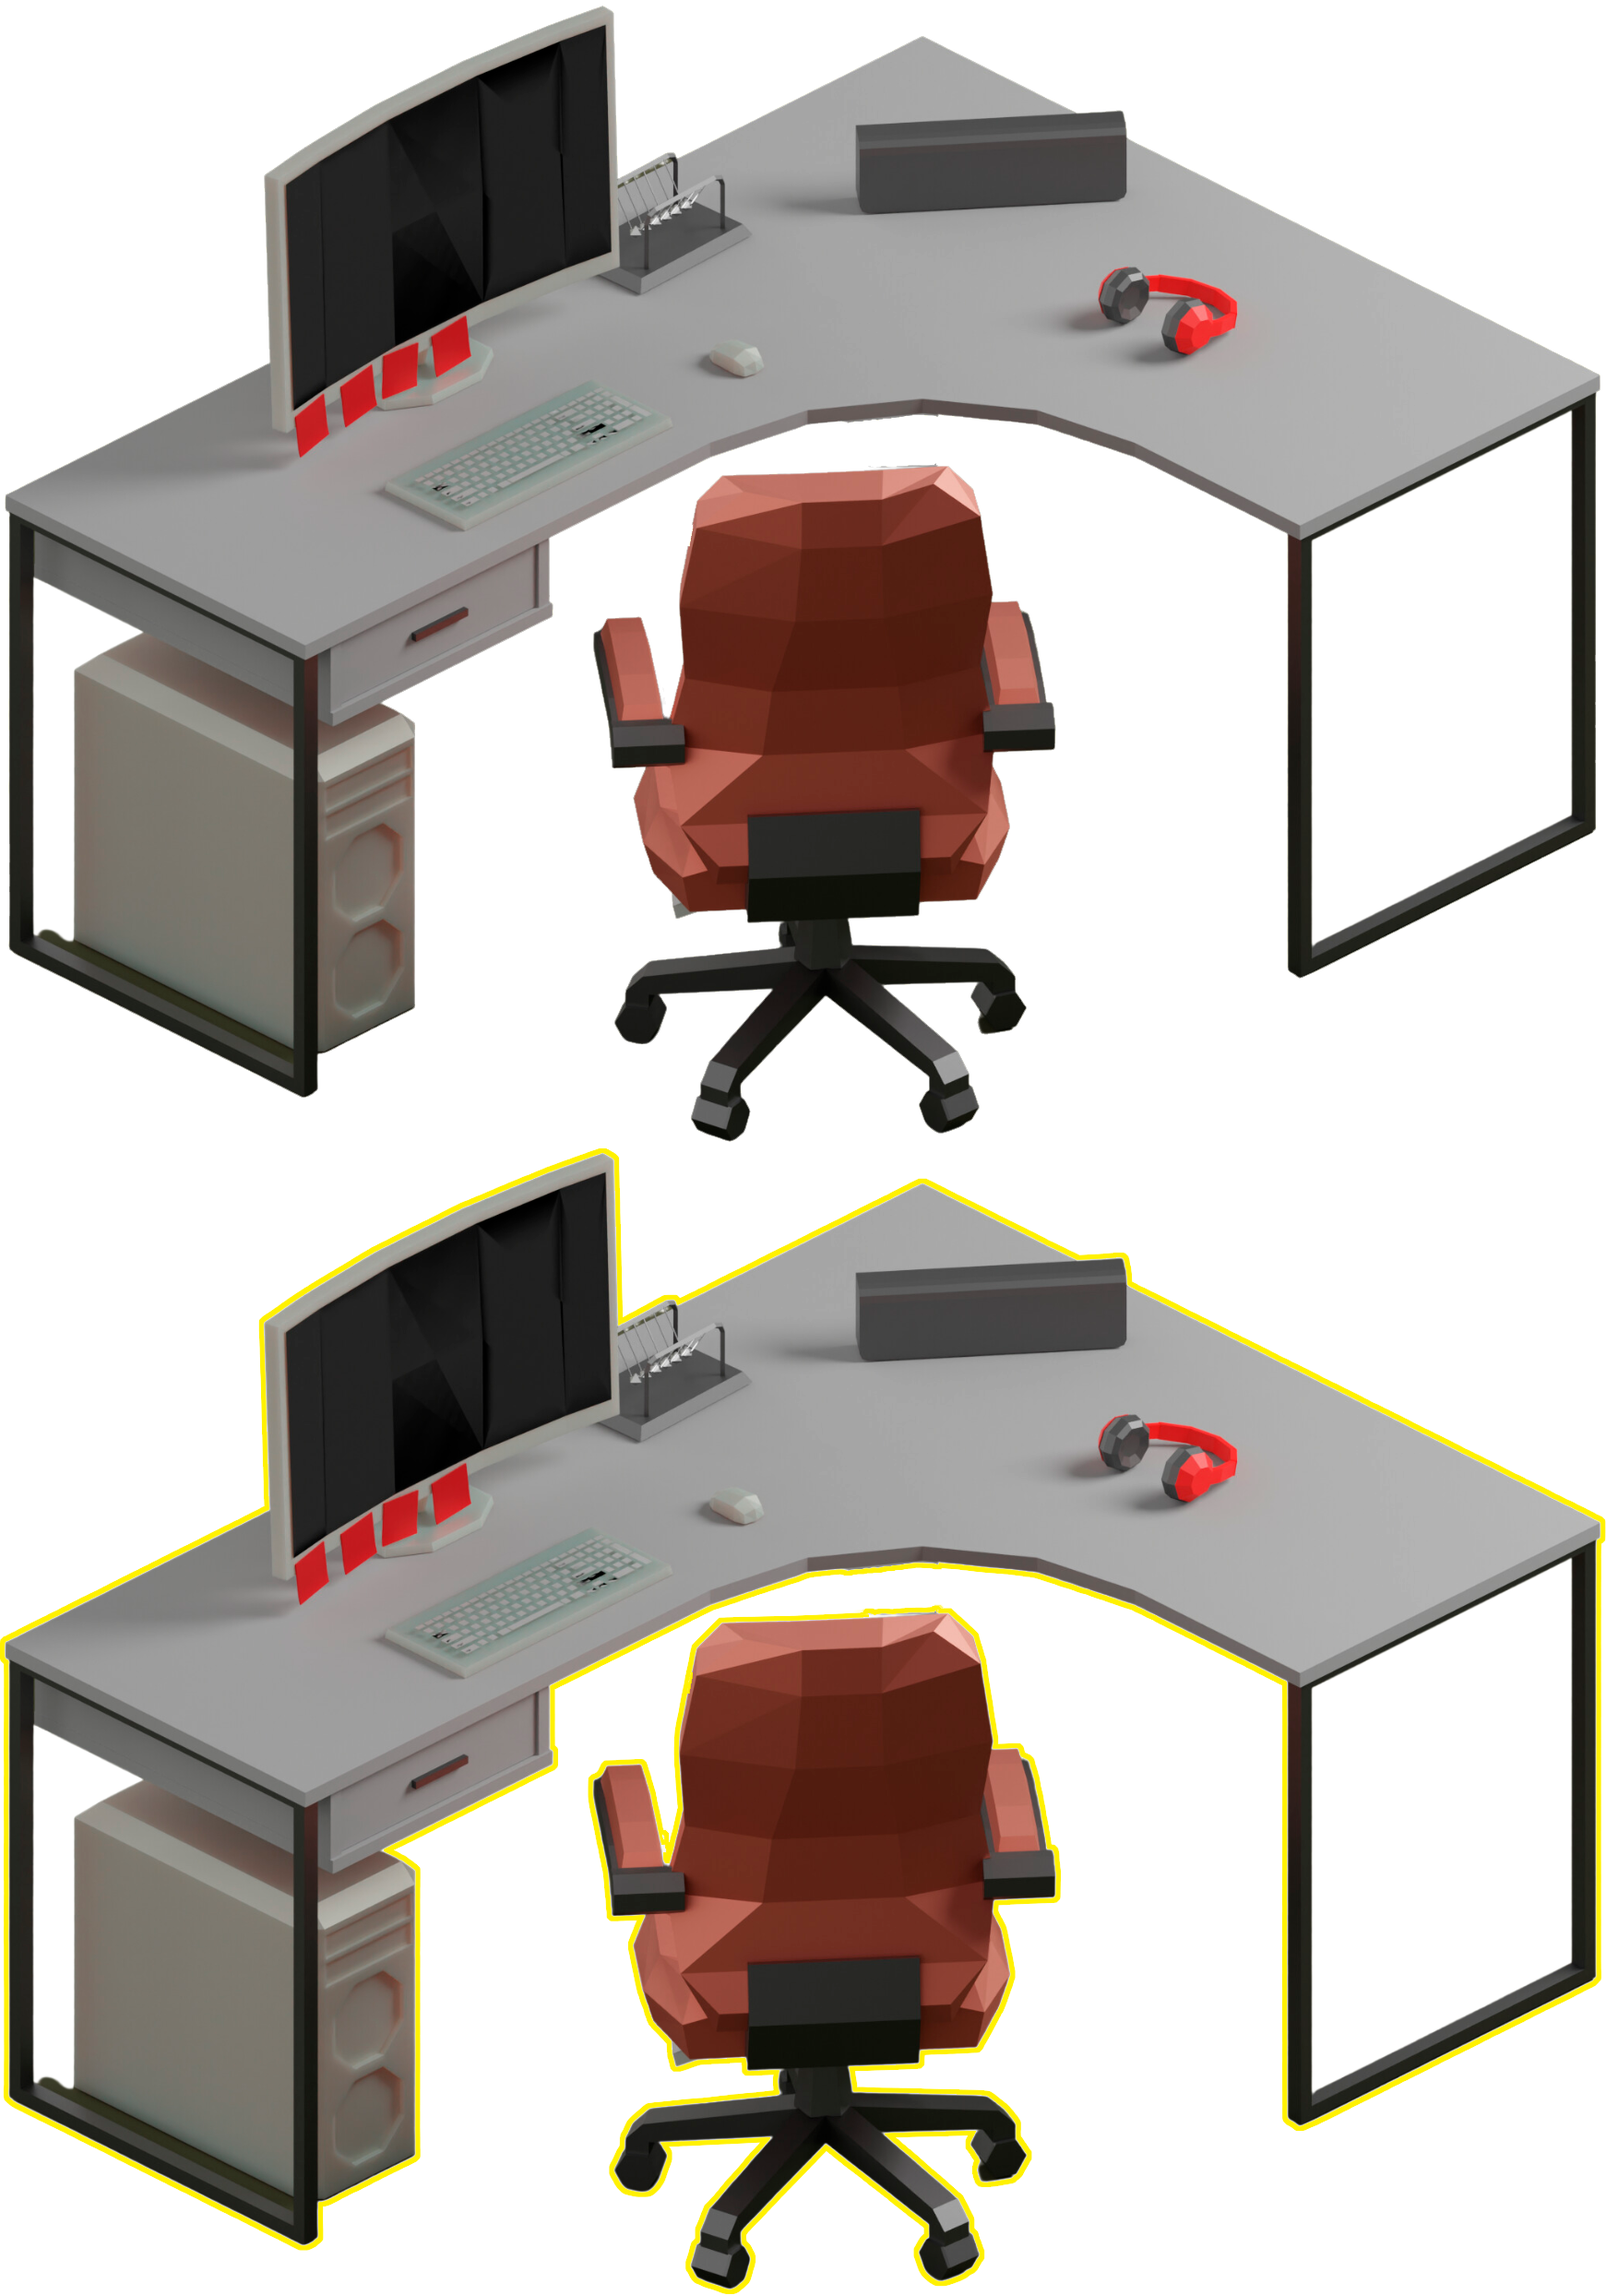
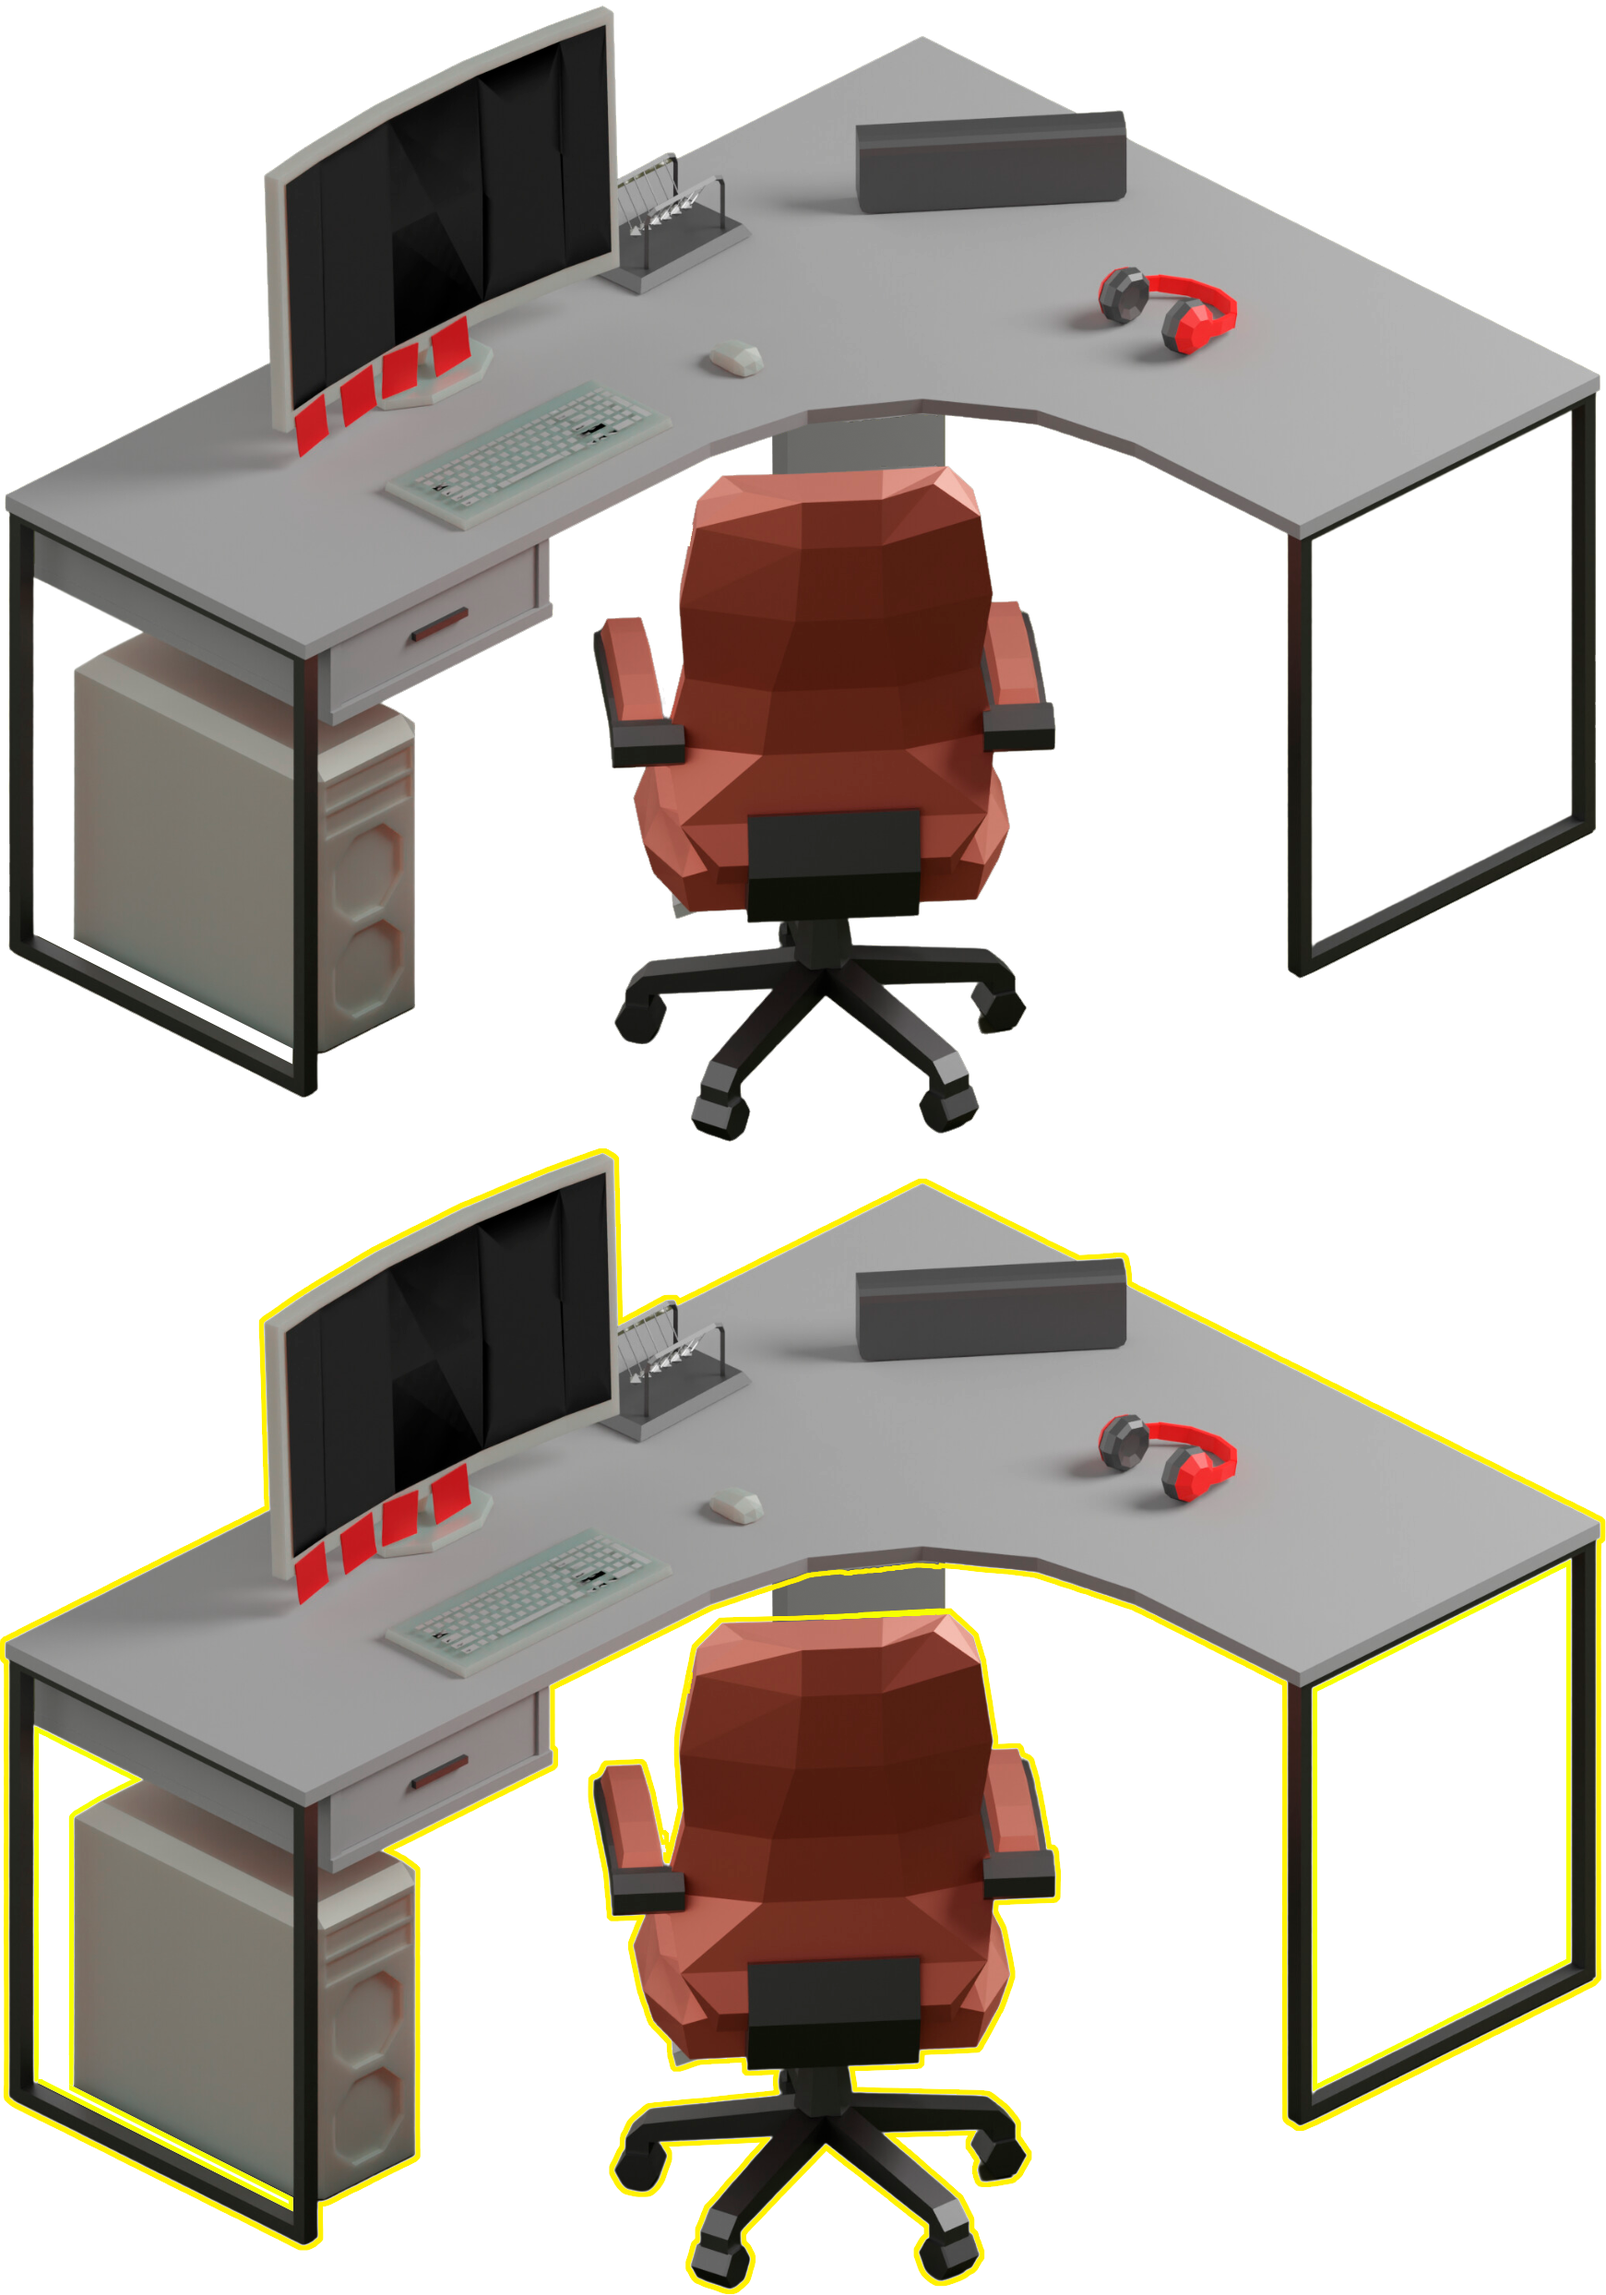
finalização da inclusão dos elementos na sala

diff --git a/src/gameLogic/levels/One/SceneOne.ts b/src/gameLogic/levels/One/SceneOne.ts
@@ -3,9 +3,14 @@ import waterDispenserSprite from '../../../assets/isometric/waterDispenser.png';
 import sofaOneSprite from '../../../assets/isometric/sofaOne.png';
 import sofaTwoSprite from '../../../assets/isometric/sofaTwo.png';
 import drawerSprite from '../../../assets/isometric/drawer.png';
+import doorSprite from '../../../assets/isometric/door.png';
 import meetingDeskSprite from '../../../assets/isometric/meetingDesk.png';
 import midLevelDeskSprite from '../../../assets/isometric/midLevelDesk.png';
 import seniorDeskSprite from '../../../assets/isometric/seniorDesk.png';
+import juniorDeskSprite from '../../../assets/isometric/juniorDesk.png';
+import internDeskSprite from '../../../assets/isometric/internDesk.png';
+import beanBagsSprite from '../../../assets/isometric/beanBags.png'; 
+import bookshelfSprite from '../../../assets/isometric/bookshelf.png';
 
 import { tileMap } from './TileMap';
 import { InteractiveObject, Floor } from '../../../classes';
@@ -26,8 +31,8 @@ const mapOrigin = {
 };
 
 const playerOrigin = {
-  x: mapOrigin.x + 9 * DX,
-  y: mapOrigin.y - 4 * DY,
+  x: mapOrigin.x + 12 * DX,
+  y: mapOrigin.y - 7 * DY,
 };
 
 //CHÃO/////////////////////////////////////////////////////////////////////////////////
@@ -42,6 +47,26 @@ const floor = new Floor({
 });
 
 const objects = [
+
+  new InteractiveObject({                 //porta
+    spriteSrc: doorSprite,
+    interactible: true,
+    size: 240,
+    position: {
+      canvas: { x: 1073, y: -198 },
+      map: { x: mapOrigin.x + 21 * DX, y: mapOrigin.y - 16 * DY},
+      tiles: [],
+      hitboxes: [
+        easyCoords({ x: 0, y: 0 }),
+        easyCoords({ x: 0, y: 1 }),
+        easyCoords({ x: 0, y: 2 }),
+        easyCoords({ x: 0, y: 3 }),
+      ],
+    },
+    allowedDirections: ['up'],
+    action: null,
+    fragment: null,
+  }),
 
   new InteractiveObject({                 //bebedouro
     spriteSrc: waterDispenserSprite,
@@ -247,7 +272,7 @@ const objects = [
     interactible: true,
     size: 355,
     position: {
-      canvas: { x: 1115, y: 565 },
+      canvas: { x: 1095, y: 565 },
       map: { x: mapOrigin.x + 23 * DX, y: mapOrigin.y + 10 * DY },
       tiles: [
         easyCoords({ x: 0, y: 0}),
@@ -269,6 +294,133 @@ const objects = [
       ],
     },
     allowedDirections: ['left'],
+    action: {
+      texts: ['interagir'],
+    },
+    fragment: null,
+  }),
+
+  new InteractiveObject({                 //mesa do dev júnior
+    spriteSrc: juniorDeskSprite,
+    interactible: true,
+    size: 345,
+    position: {
+      canvas: { x: 1350, y: 435 },
+      map: { x: mapOrigin.x + 28 * DX, y: mapOrigin.y + 5 * DY },
+      tiles: [
+        easyCoords({ x: 0, y: 0}),
+        easyCoords({ x: 1, y: 0}),
+        easyCoords({ x: 2, y: 0}),
+        easyCoords({ x: 3, y: 0}),
+        easyCoords({ x: 1, y: 1}),
+        easyCoords({ x: 2, y: 1}),
+        easyCoords({ x: 3, y: 1}),
+        easyCoords({ x: 1, y: 2}),
+        easyCoords({ x: 2, y: 2}),
+        easyCoords({ x: 3, y: 2}),
+      ],
+      hitboxes: [
+        easyCoords({ x: 0, y: 1}),
+        easyCoords({ x: 0, y: 2}),
+        easyCoords({ x: 1, y: 3}),
+        easyCoords({ x: 2, y: 3}),
+      ],
+    },
+    allowedDirections: ['left'],
+    action: {
+      texts: ['interagir'],
+    },
+    fragment: null,
+  }),
+
+  new InteractiveObject({                 //mesa do estagiário
+    spriteSrc: internDeskSprite,
+    interactible: true,
+    size: 345,
+    position: {
+      canvas: { x: 1020, y: 275 },
+      map: { x: mapOrigin.x + 21 * DX, y: mapOrigin.y - 2 * DY },
+      tiles: [
+        easyCoords({ x: 0, y: 0}),
+        easyCoords({ x: 1, y: 0}),
+        easyCoords({ x: 2, y: 0}),
+        easyCoords({ x: 3, y: 0}),
+        easyCoords({ x: 1, y: 1}),
+        easyCoords({ x: 2, y: 1}),
+        easyCoords({ x: 3, y: 1}),
+        easyCoords({ x: 1, y: 2}),
+        easyCoords({ x: 2, y: 2}),
+        easyCoords({ x: 3, y: 2}),
+      ],
+      hitboxes: [
+        easyCoords({ x: 0, y: 1}),
+        easyCoords({ x: 0, y: 2}),
+        easyCoords({ x: 1, y: 3}),
+        easyCoords({ x: 2, y: 3}),
+      ],
+    },
+    allowedDirections: ['left'],
+    action: {
+      texts: ['interagir'],
+    },
+    fragment: null,
+  }),
+
+  new InteractiveObject({                 //pufes
+    spriteSrc: beanBagsSprite,
+    interactible: true,
+    size: 345,
+    position: {
+      canvas: { x: 1620, y:350 },
+      map: { x: mapOrigin.x + 33 * DX, y: mapOrigin.y - 2 * DY },
+      tiles: [
+        easyCoords({ x: 0, y: 0}),
+        easyCoords({ x: 1, y: 0}),
+        easyCoords({ x: 0, y: 1}),
+        easyCoords({ x: 1, y: 1}),
+        easyCoords({ x: 0, y: 2}),
+        easyCoords({ x: 1, y: 2}),
+        easyCoords({ x: 0, y: 3}),
+        easyCoords({ x: 1, y: 3}),
+        easyCoords({ x: 1, y: 4}),
+      ],
+      hitboxes: [
+        easyCoords({ x: -1, y: 1}),
+        easyCoords({ x: -1, y: 2}),
+        easyCoords({ x: -1, y: 3}),
+      ],
+    },
+    allowedDirections: ['up'],
+    action: {
+      texts: ['interagir'],
+    },
+    fragment: null,
+  }),
+
+  new InteractiveObject({                 //estante com livros
+    spriteSrc: bookshelfSprite,
+    interactible: true,
+    size: 345,
+    position: {
+      canvas: { x: 1320, y: 150 },
+      map: { x: mapOrigin.x + 27 * DX, y: mapOrigin.y - 10 * DY },
+      tiles: [
+        easyCoords({ x: 0, y: 0}),
+        easyCoords({ x: 0, y: 1}),
+        easyCoords({ x: 0, y: 2}),
+        easyCoords({ x: 0, y: 3}),
+        easyCoords({ x: 0, y: 4}),
+        easyCoords({ x: 0, y: 5}),
+      ],
+      hitboxes: [
+        easyCoords({ x: -1, y: 0}),
+        easyCoords({ x: -1, y: 1}),
+        easyCoords({ x: -1, y: 2}),
+        easyCoords({ x: -1, y: 3}),
+        easyCoords({ x: -1, y: 4}),
+      ],
+    },
+    allowedDirections: ['up'],
     action: {
       texts: ['interagir'],
     },

diff --git a/src/constants/constants.ts b/src/constants/constants.ts
@@ -28,7 +28,7 @@ export const DESK_SIZE = 200;
 export const V_DESK_SIZE = 380;
 export const PLAYER_SPEED = 0.4;
 export const ANIMATION_PERIOD = 100;
-export const WALK_TOGGLE_PADDING = 250;
+export const WALK_TOGGLE_PADDING = 270;
 export const ISOMETRIC_ANGLE = Math.PI / 6;
 export const ISOMETRIC_RATIO =
   Math.cos(0.305 * Math.PI) * Math.cos(ISOMETRIC_ANGLE); //o ângulo de visualização do mapa é de 30° de inclinação, por isso esta constante
